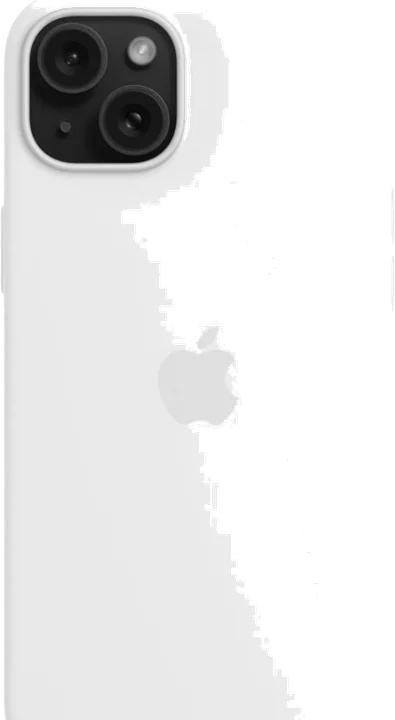
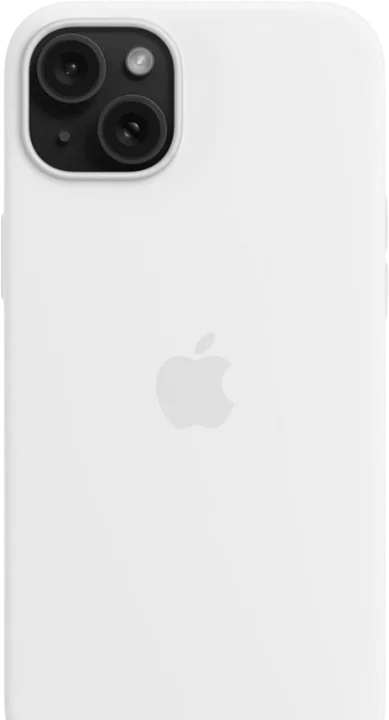
La funda ya no sale recortada y se puede usar completa
Dos cosas distintas causaban el reporte:

1. Las fundas claras salian mutiladas. Al quitarles el fondo blanco usaba
   un umbral de 236, pero el cuerpo de una funda blanca mide 241: el
   relleno se comia la funda y solo dejaba la camara y el logo. Ahora el
   color de fondo se toma de las esquinas (no de todo el borde, que en
   varias fotos es la funda misma tocando el filo), la tolerancia depende
   de si la funda es clara u oscura, y hay una segunda pasada para las
   fotos que traen un rectangulo de color con margen transparente. Las 52
   quedaron con proporcion sana (0.46-0.55); antes siete estaban en 0.83
   y una en 1.05.
2. No se podia personalizar hasta la orilla. La caja de charms tenia 6%
   de margen y encima el arrastre se topaba a 6% de esa caja: quedaba sin
   usar como un 11% de cada lado. La caja pasa a 4%/2.5% y el tope a
   3-97%. Medido: una pieza llega a 93.2% x y 95.6% y (antes 88.7 y 92.3).

El lente sigue siendo zona prohibida: arriba a la izquierda la pieza se
detiene donde empieza la camara, que es lo correcto.

Changed region(s): [[0.0, 0.0, 0.4627, 0.275], [0.4936, 0.5806, 0.5244, 0.6111]]

diff --git a/modelos.js b/modelos.js
@@ -14,22 +14,22 @@
  */
 window.ASTERIA_MODELOS = {
   "iPhone 11": { alto: 150, ancho: 75.7, camara: "esquina", colores: {
-    Blanco: { img: "img/fundas/iphone-11-blanco.webp", proporcion: 0.539, cam: { x1: 0.512, y1: 0.305 } },
+    Blanco: { img: "img/fundas/iphone-11-blanco.webp", proporcion: 0.532, cam: { x1: 0.508, y1: 0.313 } },
     Negro: { img: "img/fundas/iphone-11-negro.webp", proporcion: 0.521, cam: { x1: 0.502, y1: 0.288 } },
   } },
   "iPhone 11 Pro": { alto: 140, ancho: 71.4, camara: "esquina", colores: {
-    Gris: { img: "img/fundas/iphone-11-pro-gris.webp", proporcion: 0.542, cam: { x1: 0.448, y1: 0.255 } },
+    Gris: { img: "img/fundas/iphone-11-pro-gris.webp", proporcion: 0.536, cam: { x1: 0.445, y1: 0.253 } },
     Beige: { img: "img/fundas/iphone-11-pro-beige.webp", proporcion: 0.515, cam: { x1: 0.45, y1: 0.262 } },
   } },
   "iPhone 11 Pro Max": { alto: 158, ancho: 77.8, camara: "esquina", colores: {
-    Negro: { img: "img/fundas/iphone-11-pro-max-negro.webp", proporcion: 0.536, cam: { x1: 0.46, y1: 0.262 } },
+    Negro: { img: "img/fundas/iphone-11-pro-max-negro.webp", proporcion: 0.543, cam: { x1: 0.465, y1: 0.262 } },
   } },
   "iPhone 12 Pro Max": { alto: 160, ancho: 78, camara: "esquina", colores: {
-    Negro: { img: "img/fundas/iphone-12-pro-max-negro.webp", proporcion: 0.536, cam: { x1: 0.46, y1: 0.262 } },
+    Negro: { img: "img/fundas/iphone-12-pro-max-negro.webp", proporcion: 0.543, cam: { x1: 0.465, y1: 0.262 } },
   } },
   "iPhone 13": { alto: 146.7, ancho: 71.5, camara: "esquina", colores: {
-    Blanco: { img: "img/fundas/iphone-13-blanco.webp", proporcion: 0.542, cam: { x1: 0.592, y1: 0.312 } },
-    Negro: { img: "img/fundas/iphone-13-negro.webp", proporcion: 0.54, cam: { x1: 0.498, y1: 0.276 } },
+    Blanco: { img: "img/fundas/iphone-13-blanco.webp", proporcion: 0.542, cam: { x1: 0.576, y1: 0.309 } },
+    Negro: { img: "img/fundas/iphone-13-negro.webp", proporcion: 0.54, cam: { x1: 0.495, y1: 0.276 } },
   } },
   "iPhone 13 Pro": { alto: 146.7, ancho: 71.5, camara: "esquina", colores: {
     Negro: { img: "img/fundas/iphone-13-pro-negro.webp", proporcion: 0.544, cam: { x1: 0.576, y1: 0.323 } },
@@ -37,86 +37,86 @@ window.ASTERIA_MODELOS = {
     Beige: { img: "img/fundas/iphone-13-pro-beige.webp", proporcion: 0.542, cam: { x1: 0.553, y1: 0.317 } },
   } },
   "iPhone 13 Pro Max": { alto: 160, ancho: 78.1, camara: "esquina", colores: {
-    Blanco: { img: "img/fundas/iphone-13-pro-max-blanco.webp", proporcion: 0.54, cam: { x1: 0.554, y1: 0.307 } },
+    Blanco: { img: "img/fundas/iphone-13-pro-max-blanco.webp", proporcion: 0.536, cam: { x1: 0.553, y1: 0.313 } },
     Gris: { img: "img/fundas/iphone-13-pro-max-gris.webp", proporcion: 0.542, cam: { x1: 0.548, y1: 0.314 } },
     Beige: { img: "img/fundas/iphone-13-pro-max-beige.webp", proporcion: 0.535, cam: { x1: 0.552, y1: 0.313 } },
   } },
   "iPhone 14": { alto: 146.7, ancho: 71.5, camara: "esquina", colores: {
-    Blanco: { img: "img/fundas/iphone-14-blanco.webp", proporcion: 0.542, cam: { x1: 0.592, y1: 0.312 } },
-    Negro: { img: "img/fundas/iphone-14-negro.webp", proporcion: 0.54, cam: { x1: 0.498, y1: 0.276 } },
+    Blanco: { img: "img/fundas/iphone-14-blanco.webp", proporcion: 0.542, cam: { x1: 0.576, y1: 0.309 } },
+    Negro: { img: "img/fundas/iphone-14-negro.webp", proporcion: 0.54, cam: { x1: 0.495, y1: 0.276 } },
   } },
   "iPhone 14 Plus": { alto: 160, ancho: 78.1, camara: "esquina", colores: {
-    Blanco: { img: "img/fundas/iphone-14-plus-blanco.webp", proporcion: 0.549, cam: { x1: 0.496, y1: 0.262 } },
+    Blanco: { img: "img/fundas/iphone-14-plus-blanco.webp", proporcion: 0.54, cam: { x1: 0.495, y1: 0.273 } },
     Negro: { img: "img/fundas/iphone-14-plus-negro.webp", proporcion: 0.532, cam: { x1: 0.49, y1: 0.269 } },
   } },
   "iPhone 14 Pro": { alto: 146.7, ancho: 71.5, camara: "esquina", colores: {
-    Blanco: { img: "img/fundas/iphone-14-pro-blanco.webp", proporcion: 0.54, cam: { x1: 0.554, y1: 0.307 } },
+    Blanco: { img: "img/fundas/iphone-14-pro-blanco.webp", proporcion: 0.536, cam: { x1: 0.553, y1: 0.313 } },
     Negro: { img: "img/fundas/iphone-14-pro-negro.webp", proporcion: 0.544, cam: { x1: 0.576, y1: 0.323 } },
     Gris: { img: "img/fundas/iphone-14-pro-gris.webp", proporcion: 0.543, cam: { x1: 0.549, y1: 0.314 } },
     Beige: { img: "img/fundas/iphone-14-pro-beige.webp", proporcion: 0.542, cam: { x1: 0.551, y1: 0.317 } },
   } },
   "iPhone 14 Pro Max": { alto: 160, ancho: 78.1, camara: "esquina", colores: {
-    Blanco: { img: "img/fundas/iphone-14-pro-max-blanco.webp", proporcion: 0.54, cam: { x1: 0.554, y1: 0.307 } },
+    Blanco: { img: "img/fundas/iphone-14-pro-max-blanco.webp", proporcion: 0.536, cam: { x1: 0.553, y1: 0.313 } },
     Negro: { img: "img/fundas/iphone-14-pro-max-negro.webp", proporcion: 0.533, cam: { x1: 0.585, y1: 0.321 } },
   } },
   "iPhone 15": { alto: 146.7, ancho: 71.5, camara: "esquina", colores: {
-    Blanco: { img: "img/fundas/iphone-15-blanco.webp", proporcion: 0.542, cam: { x1: 0.592, y1: 0.312 } },
-    Negro: { img: "img/fundas/iphone-15-negro.webp", proporcion: 0.54, cam: { x1: 0.498, y1: 0.276 } },
-    Gris: { img: "img/fundas/iphone-15-gris.webp", proporcion: 0.539, cam: { x1: 0.486, y1: 0.263 } },
+    Blanco: { img: "img/fundas/iphone-15-blanco.webp", proporcion: 0.542, cam: { x1: 0.576, y1: 0.309 } },
+    Negro: { img: "img/fundas/iphone-15-negro.webp", proporcion: 0.54, cam: { x1: 0.495, y1: 0.276 } },
+    Gris: { img: "img/fundas/iphone-15-gris.webp", proporcion: 0.542, cam: { x1: 0.486, y1: 0.263 } },
   } },
   "iPhone 15 Plus": { alto: 160, ancho: 78.1, camara: "esquina", colores: {
     Gris: { img: "img/fundas/iphone-15-plus-gris.webp", proporcion: 0.532, cam: { x1: 0.49, y1: 0.269 } },
-    Beige: { img: "img/fundas/iphone-15-plus-beige.webp", proporcion: 0.54, cam: { x1: 0.495, y1: 0.273 } },
+    Beige: { img: "img/fundas/iphone-15-plus-beige.webp", proporcion: 0.54, cam: { x1: 0.495, y1: 0.274 } },
   } },
   "iPhone 15 Pro": { alto: 146.7, ancho: 71.5, camara: "esquina", colores: {
-    Blanco: { img: "img/fundas/iphone-15-pro-blanco.webp", proporcion: 0.54, cam: { x1: 0.554, y1: 0.307 } },
+    Blanco: { img: "img/fundas/iphone-15-pro-blanco.webp", proporcion: 0.536, cam: { x1: 0.553, y1: 0.313 } },
     Negro: { img: "img/fundas/iphone-15-pro-negro.webp", proporcion: 0.544, cam: { x1: 0.576, y1: 0.323 } },
     Gris: { img: "img/fundas/iphone-15-pro-gris.webp", proporcion: 0.542, cam: { x1: 0.551, y1: 0.314 } },
   } },
   "iPhone 15 Pro Max": { alto: 163, ancho: 77.6, camara: "esquina", colores: {
-    Blanco: { img: "img/fundas/iphone-15-pro-max-blanco.webp", proporcion: 0.54, cam: { x1: 0.554, y1: 0.307 } },
+    Blanco: { img: "img/fundas/iphone-15-pro-max-blanco.webp", proporcion: 0.536, cam: { x1: 0.553, y1: 0.313 } },
     Negro: { img: "img/fundas/iphone-15-pro-max-negro.webp", proporcion: 0.533, cam: { x1: 0.585, y1: 0.321 } },
     Gris: { img: "img/fundas/iphone-15-pro-max-gris.webp", proporcion: 0.535, cam: { x1: 0.552, y1: 0.313 } },
   } },
   "iPhone 16": { alto: 147.6, ancho: 71.6, camara: "esquina", colores: {
-    Blanco: { img: "img/fundas/iphone-16-blanco.webp", proporcion: 0.526, cam: { x1: 0.426, y1: 0.285 } },
+    Blanco: { img: "img/fundas/iphone-16-blanco.webp", proporcion: 0.529, cam: { x1: 0.348, y1: 0.305 } },
     Negro: { img: "img/fundas/iphone-16-negro.webp", proporcion: 0.55, cam: { x1: 0.444, y1: 0.299 } },
   } },
   "iPhone 16 Plus": { alto: 160, ancho: 77.6, camara: "esquina", colores: {
-    Blanco: { img: "img/fundas/iphone-16-plus-blanco.webp", proporcion: 0.522, cam: { x1: 0.346, y1: 0.301 } },
-    Negro: { img: "img/fundas/iphone-16-plus-negro.webp", proporcion: 0.535, cam: { x1: 0.446, y1: 0.292 } },
+    Blanco: { img: "img/fundas/iphone-16-plus-blanco.webp", proporcion: 0.535, cam: { x1: 0.37, y1: 0.307 } },
+    Negro: { img: "img/fundas/iphone-16-plus-negro.webp", proporcion: 0.537, cam: { x1: 0.446, y1: 0.294 } },
   } },
   "iPhone 16 Pro": { alto: 149.6, ancho: 71.5, camara: "esquina", colores: {
-    Blanco: { img: "img/fundas/iphone-16-pro-blanco.webp", proporcion: 0.54, cam: { x1: 0.554, y1: 0.307 } },
+    Blanco: { img: "img/fundas/iphone-16-pro-blanco.webp", proporcion: 0.536, cam: { x1: 0.553, y1: 0.313 } },
     Negro: { img: "img/fundas/iphone-16-pro-negro.webp", proporcion: 0.544, cam: { x1: 0.576, y1: 0.323 } },
     Beige: { img: "img/fundas/iphone-16-pro-beige.webp", proporcion: 0.542, cam: { x1: 0.551, y1: 0.317 } },
   } },
   "iPhone 16 Pro Max": { alto: 163, ancho: 77.6, camara: "esquina", colores: {
-    Blanco: { img: "img/fundas/iphone-16-pro-max-blanco.webp", proporcion: 0.54, cam: { x1: 0.554, y1: 0.307 } },
+    Blanco: { img: "img/fundas/iphone-16-pro-max-blanco.webp", proporcion: 0.536, cam: { x1: 0.553, y1: 0.313 } },
     Negro: { img: "img/fundas/iphone-16-pro-max-negro.webp", proporcion: 0.533, cam: { x1: 0.585, y1: 0.321 } },
   } },
   "iPhone 17": { alto: 149.6, ancho: 71.6, camara: "esquina", colores: {
-    Blanco: { img: "img/fundas/iphone-17-blanco.webp", proporcion: 0.526, cam: { x1: 0.426, y1: 0.285 } },
+    Blanco: { img: "img/fundas/iphone-17-blanco.webp", proporcion: 0.529, cam: { x1: 0.348, y1: 0.305 } },
     Negro: { img: "img/fundas/iphone-17-negro.webp", proporcion: 0.55, cam: { x1: 0.444, y1: 0.299 } },
   } },
   "iPhone 17 Pro": { alto: 150, ancho: 71.9, camara: "barra", colores: {
-    Blanco: { img: "img/fundas/iphone-17-pro-blanco.webp", proporcion: 0.554, cam: { x1: 1, y1: 0.335 } },
-    Negro: { img: "img/fundas/iphone-17-pro-negro.webp", proporcion: 0.549, cam: { x1: 1, y1: 0.352 } },
+    Blanco: { img: "img/fundas/iphone-17-pro-blanco.webp", proporcion: 0.546, cam: { x1: 1, y1: 0.351 } },
+    Negro: { img: "img/fundas/iphone-17-pro-negro.webp", proporcion: 0.551, cam: { x1: 1, y1: 0.352 } },
   } },
   "iPhone 17 Pro Max": { alto: 163, ancho: 77.8, camara: "barra", colores: {
-    Blanco: { img: "img/fundas/iphone-17-pro-max-blanco.webp", proporcion: 0.508, cam: { x1: 1, y1: 0.302 } },
-    Negro: { img: "img/fundas/iphone-17-pro-max-negro.webp", proporcion: 0.535, cam: { x1: 1, y1: 0.32 } },
+    Blanco: { img: "img/fundas/iphone-17-pro-max-blanco.webp", proporcion: 0.531, cam: { x1: 1, y1: 0.317 } },
+    Negro: { img: "img/fundas/iphone-17-pro-max-negro.webp", proporcion: 0.536, cam: { x1: 1, y1: 0.321 } },
   } },
   /* No hay iPhone 18 normal: la linea empieza en el 18 Pro. Este no traia
      ficha propia en la carpeta y usa la funda del 17 Pro, que el usuario
      confirmo que es la misma. */
   "iPhone 18 Pro": { alto: 150, ancho: 71.9, camara: "barra", colores: {
-    Blanco: { img: "img/fundas/iphone-17-pro-blanco.webp", proporcion: 0.554, cam: { x1: 1, y1: 0.335 } },
-    Negro: { img: "img/fundas/iphone-17-pro-negro.webp", proporcion: 0.549, cam: { x1: 1, y1: 0.352 } },
+    Blanco: { img: "img/fundas/iphone-17-pro-blanco.webp", proporcion: 0.546, cam: { x1: 1, y1: 0.351 } },
+    Negro: { img: "img/fundas/iphone-17-pro-negro.webp", proporcion: 0.551, cam: { x1: 1, y1: 0.352 } },
   } },
   "iPhone 18 Pro Max": { alto: 163, ancho: 77.8, camara: "barra", colores: {
-    Blanco: { img: "img/fundas/iphone-18-pro-max-blanco.webp", proporcion: 0.508, cam: { x1: 1, y1: 0.302 } },
-    Negro: { img: "img/fundas/iphone-18-pro-max-negro.webp", proporcion: 0.535, cam: { x1: 1, y1: 0.32 } },
+    Blanco: { img: "img/fundas/iphone-18-pro-max-blanco.webp", proporcion: 0.531, cam: { x1: 1, y1: 0.317 } },
+    Negro: { img: "img/fundas/iphone-18-pro-max-negro.webp", proporcion: 0.536, cam: { x1: 1, y1: 0.321 } },
   } },
 };
 

diff --git a/editor.js b/editor.js
@@ -168,6 +168,10 @@
 
   const esBarra = (modelo) => medidas(modelo).camara === "barra";
 
+  /* Donde vive la caja de charms dentro de la funda; tiene que coincidir con
+     .ed-area en editor.css. */
+  const AREA = { left: 0.04, top: 0.025, w: 0.92, h: 0.95 };
+
   /* El formulario dice "Blanca"/"Negra" (la funda); el catalogo usa el color
      del producto. Se aceptan los dos. */
   const NORMAL = { Blanca: "Blanco", Negra: "Negro", Gris: "Gris", Beige: "Beige" };
@@ -184,8 +188,8 @@
     if (foto && foto.cam) {
       // La foto dice donde termina la camara (fraccion de la imagen); se pasa a
       // coordenadas de la caja de charms, que empieza en 6%/4% de la funda.
-      const x1 = foto.cam.x1 >= 1 ? 102 : ((foto.cam.x1 - 0.06) / 0.88) * 100;
-      const y1 = ((foto.cam.y1 - 0.04) / 0.92) * 100;
+      const x1 = foto.cam.x1 >= 1 ? 102 : ((foto.cam.x1 - AREA.left) / AREA.w) * 100;
+      const y1 = ((foto.cam.y1 - AREA.top) / AREA.h) * 100;
       return { x0: -2, y0: -2, x1: x1, y1: y1 };
     }
     return esBarra(modelo)
@@ -205,8 +209,8 @@
     const m = margen || 0;
     const bajar = zona.y1 + m;
     const derecha = zona.x1 + m;
-    if (zona.x1 < 90 && (derecha - x) < (bajar - y)) return { x: Math.min(94, derecha), y: y };
-    return { x: x, y: Math.min(96, bajar) };
+    if (zona.x1 < 90 && (derecha - x) < (bajar - y)) return { x: Math.min(97, derecha), y: y };
+    return { x: x, y: Math.min(98, bajar) };
   }
 
   function svgFunda(color, pasta, modelo) {
@@ -343,7 +347,7 @@
           const ang = (i / pasos) * Math.PI * 2 + radio * 0.7;
           const x = 50 + Math.cos(ang) * radio;
           const y = centroY + Math.sin(ang) * radio * 1.55;
-          if (x < 8 || x > 92 || y < 4 || y > 94) continue;
+          if (x < 5 || x > 95 || y < 3 || y > 97) continue;
           if (dentroDeCamara(camara, x, y, tam * 0.5)) continue;
           const choca = puestos.some((p) => {
             const otra = porId().get(p.id);
@@ -389,9 +393,9 @@
         // Con modulo en esquina se empieza desde arriba para aprovechar la
         // franja de al lado; con barra completa no hay nada que aprovechar.
         const arriba = esBarra(modelo) ? camara.y1 + 4 : 8;
-        const px = ((c + 0.5) / cols) * 74 + 13;
+        const px = ((c + 0.5) / cols) * 84 + 8;
         const py = arriba + ((f + 0.5) / filas) * (92 - arriba);
-        const ajustado = fueraDeCamara(camara, px + (Math.random() * 5 - 2.5), py + (Math.random() * 4 - 2), 6);
+        const ajustado = fueraDeCamara(camara, px + (Math.random() * 5 - 2.5), py + (Math.random() * 4 - 2), 4);
         p.x = ajustado.x;
         p.y = ajustado.y;
         p.rot = Math.round(Math.random() * 30 - 15);
@@ -506,7 +510,8 @@
 
     /* ---------- arrastrar ---------- */
     function limites(x, y) {
-      const dentro = { x: Math.max(6, Math.min(94, x)), y: Math.max(4, Math.min(96, y)) };
+      // Se puede llegar casi al borde: la funda entera es zona de trabajo.
+      const dentro = { x: Math.max(3, Math.min(97, x)), y: Math.max(2, Math.min(98, y)) };
       // Un charm sobre el lente no se puede pegar: la pieza se desvia sola.
       return fueraDeCamara(camara, dentro.x, dentro.y, 5);
     }

diff --git a/editor.css b/editor.css
@@ -35,7 +35,10 @@
 /* La caja de charms cubre toda la funda por dentro; lo que la camara ocupa se
    descuenta en el editor segun el modelo, no recortando la caja. Antes empezaba
    debajo de la camara y la franja de al lado quedaba dibujada pero inservible. */
-.ed-area{position:absolute;left:6%;top:4%;width:88%;height:92%}
+/* Casi al ras de la funda: antes quedaba un margen de 6% que, sumado al tope
+   del arrastre, dejaba sin usar como un 11% de cada lado. Si cambian estos
+   valores hay que cambiar AREA en editor.js. */
+.ed-area{position:absolute;left:4%;top:2.5%;width:92%;height:95%}
 
 /* Cada pieza se mide por el lado que trae anotado el taller: --w cuando la
    medida es de ancho o diametro, --h cuando es de largo. El otro lado sale de
